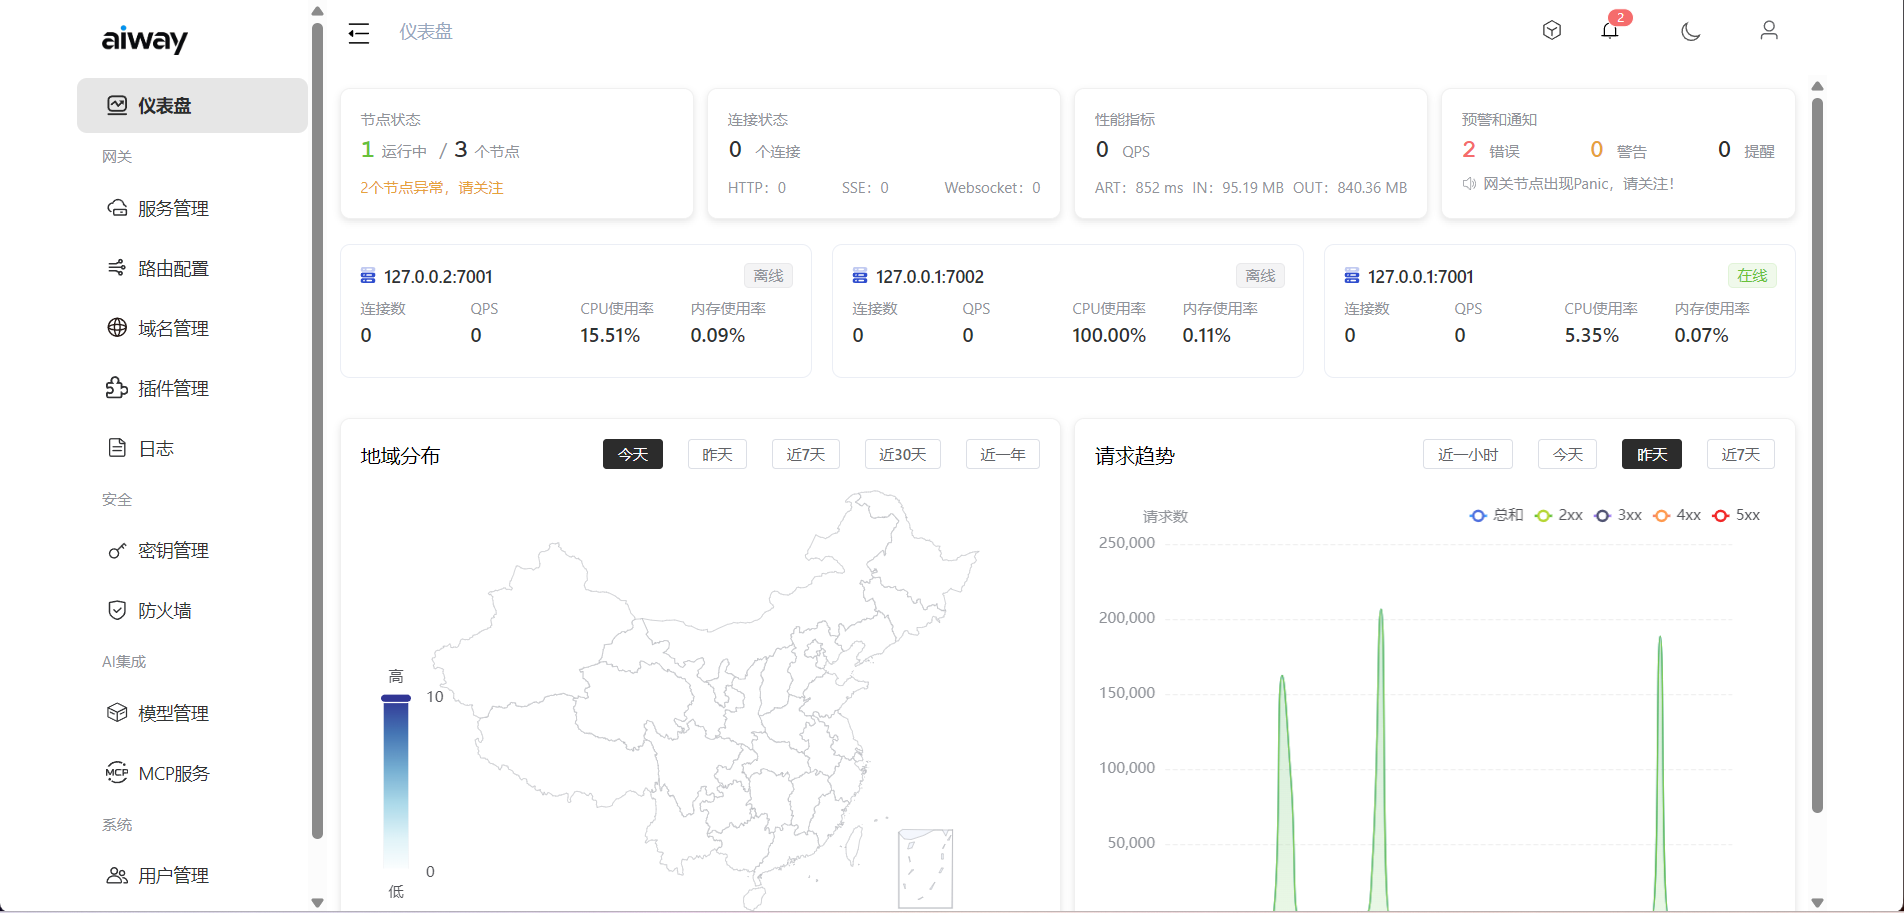
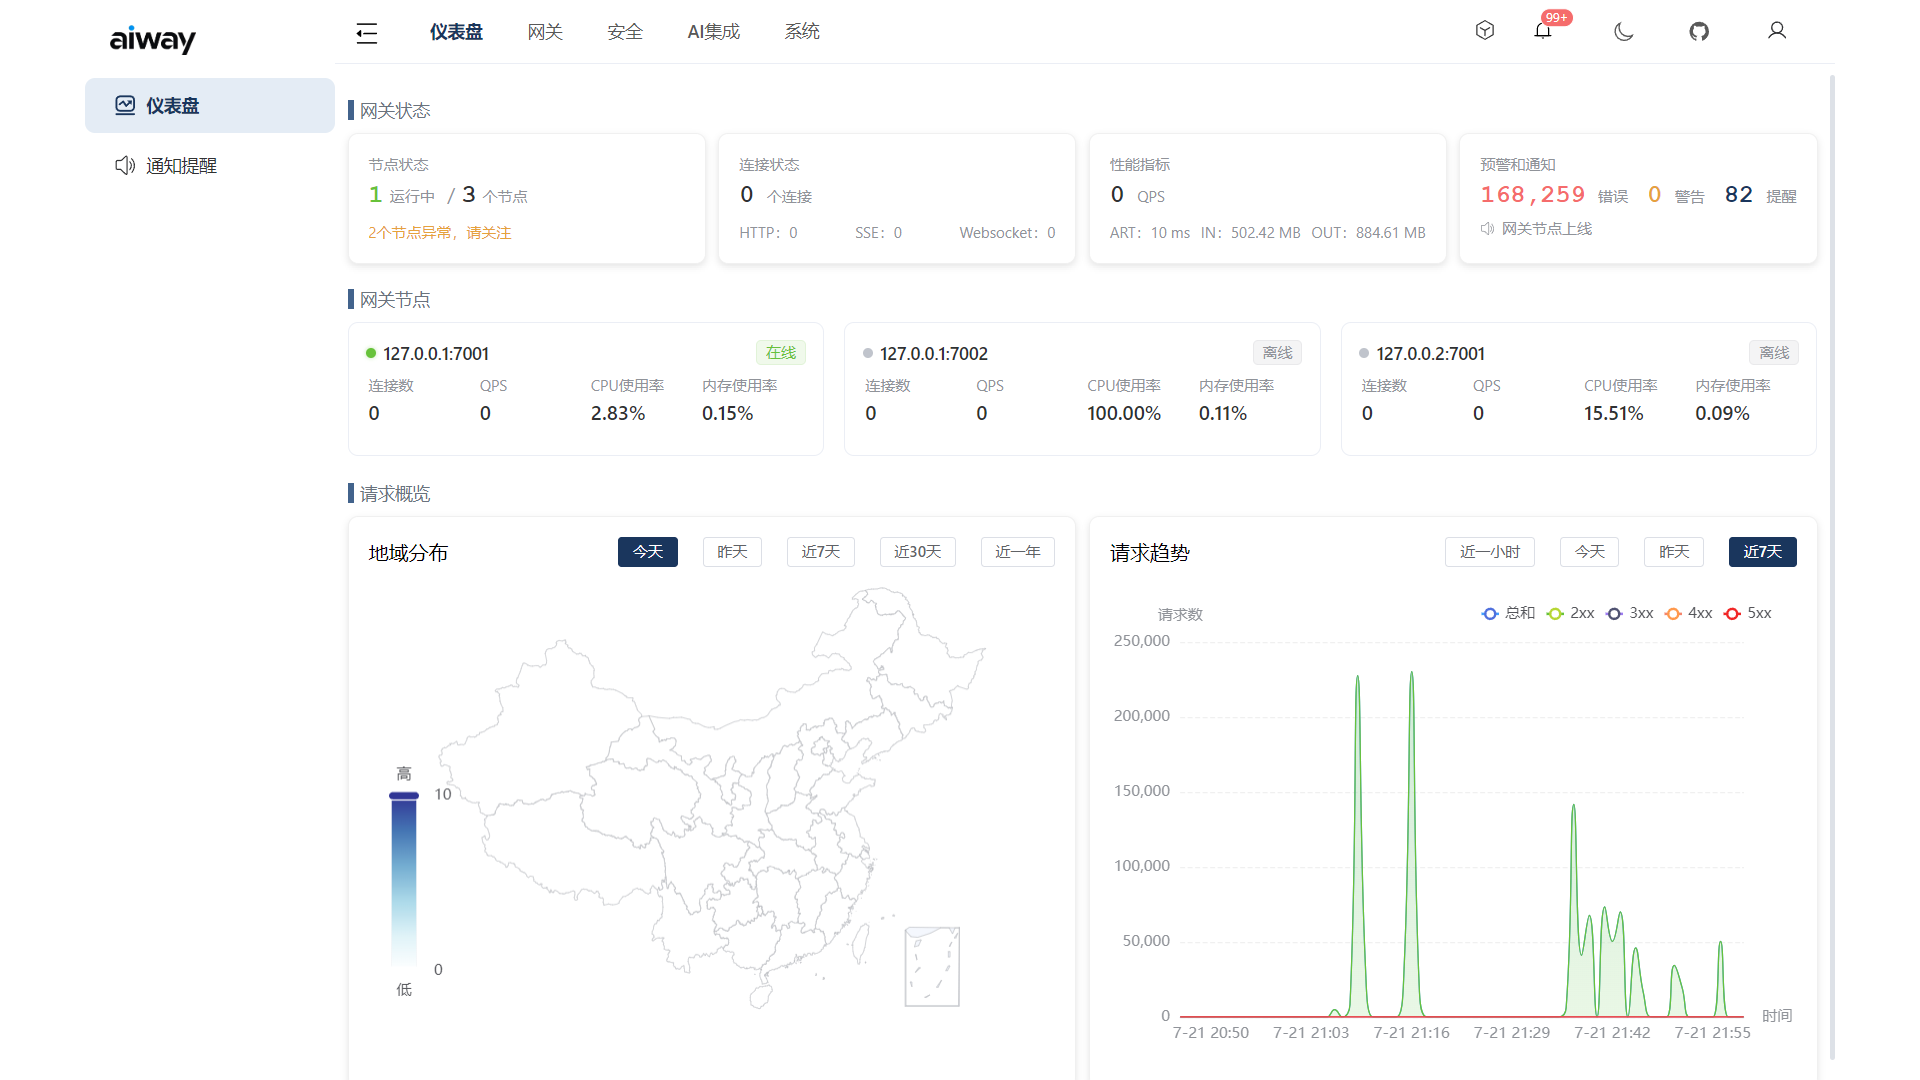
update docs

diff --git a/docs/.vitepress/config.js b/docs/.vitepress/config.js
@@ -60,7 +60,6 @@ export default {
                 text: '接入层',
                 items: [
                     {text: '概述', link: '/access/overview'},
-                    {text: 'L4 透传', link: '/access/l4-proxy'},
                     {text: 'TLS 终止', link: '/access/tls'}
                 ]
             },

diff --git a/docs/access/overview.md b/docs/access/overview.md
@@ -1,20 +1,39 @@
 # 接入层
 
-接入层（Access）是网关系统的 L4 TCP 透传代理，支持 TLS 终止。
+## `access` 接入点
 
-Access 作为外部流量的统一入口，将请求转发到后端网关节点，和 Nginx 类似。
+通常情况下，网关作为系统内部服务，不应在公网暴露，所以需要一个接入点来接收外部流量，并转发到网关节点。
+
+接入层 `access` 是 aiway 为网关提供的的可选入口点，在 L4 层进行流量转发，支持 TLS 终止。
 
 ```text
-Request --> Access --> Gateway1 --> Service
+# 请求流程
+Request --> Access --> Gateway --> Service
 ```
 
-当有多个网节点时，建议通过Access来接入，可将域名解析到Access节点，实现网关的负载均衡。
+`access` 会与控制台通信，自动获取可用的网关节点，当有多个网节点时，建议通过 `access` 来接入，可将域名解析到 `access`
+节点，实现网关的负载均衡。
 
-## 职责
+![域名管理](../images/access.png)
 
-- **统一入口**：作为系统的对外统一接入点
-- **L4 透传**：纯 TCP 层转发，不解析 HTTP 内容
-- **TLS 终止**：解密 HTTPS 流量后以明文转发给网关
-- **SNI 路由**：根据域名动态选择 TLS 证书
-- **节点发现**：从控制台自动发现网关节点
-- **负载均衡**：自动分发到多个网关节点
+
+> 如果您对 Nginx 更熟悉，也可以使用 Nginx 作为接入点，反向代理到网关节点。
+
+## 启动参数
+
+以下是 `access` 的启动参数：
+
+```shell
+access -h
+Usage: access [OPTIONS]
+
+Options:
+  -a, --address <ADDRESS>        Listen address [default: 0.0.0.0]
+  -p, --port <PORT>              HTTP listen port [default: 7080]
+      --https-port <HTTPS_PORT>  HTTPS listen port, 0 means disabled [default: 0]
+  -c, --console <CONSOLE>        Console address [default: 127.0.0.1:7000]
+  -l, --log-server <LOG_SERVER>  Log server address [default: 127.0.0.1:7280]
+  -h, --help                     Print help
+  -V, --version                  Print version
+
+```

diff --git a/docs/gateway/plugins.md b/docs/gateway/plugins.md
@@ -4,21 +4,21 @@
 
 ## 插件类型
 
-| 类型 | 作用范围 | 说明 |
-|------|----------|------|
-| 全局插件 | 所有请求 | 在每个请求的所有阶段执行 |
-| 路由插件 | 特定路由 | 仅在该路由匹配时执行 |
-| 模型插件 | AI 模型供应商 | 仅在该模型的请求中执行 |
+| 类型   | 作用范围     | 说明           |
+|------|----------|--------------|
+| 全局插件 | 所有请求     | 在每个请求的所有阶段执行 |
+| 路由插件 | 特定路由     | 仅在该路由匹配时执行   |
+| 模型插件 | AI 模型供应商 | 仅在该模型的请求中执行  |
 
 ## 插件生命周期
 
-| 阶段 | 执行时机 | 操作对象 |
-|------|----------|----------|
-| `on_request` | 请求转发前 | 请求头 |
-| `on_request_body` | 请求转发前 | 请求体 |
-| `on_response` | 收到响应后 | 响应头 |
-| `on_response_body` | 收到响应后（同步） | 响应体 |
-| `on_logging` | 日志记录时 | 上下文 |
+| 阶段                 | 执行时机      | 操作对象 |
+|--------------------|-----------|------|
+| `on_request`       | 请求转发前     | 请求头  |
+| `on_request_body`  | 请求转发前     | 请求体  |
+| `on_response`      | 收到响应后     | 响应头  |
+| `on_response_body` | 收到响应后（同步） | 响应体  |
+| `on_logging`       | 日志记录时     | 上下文  |
 
 ## 插件开发
 

diff --git a/docs/logg/overview.md b/docs/logg/overview.md
@@ -1,12 +1,12 @@
 # 日志服务
 
-日志服务（Logg）基于 [Tantivy](https://github.com/quickwit-oss/tantivy) 全文检索引擎构建。
+日志服务 `logg` 用于接收并存储网关节点产生的所有日志，基于 [Tantivy](https://github.com/quickwit-oss/tantivy) 全文检索引擎构建。
 
 ## 功能
 
-- **通用日志**：接收应用日志并建立全文索引（索引名: aiway-logs）
-- **请求日志**：接收网关请求日志并建立索引（索引名: request-logs）
-- **REST API**：兼容 Quickwit 的查询接口
+- 通用日志：接收应用日志并建立全文索引（索引名: aiway-logs）
+- 请求日志：接收网关请求日志并建立索引（索引名: request-logs）
+- 模型调用日志：接收模型调用日志并建立索引（索引名: model-call-logs）
 
 ## 启动
 
@@ -14,9 +14,16 @@
 ./logg
 ```
 
-## API
+可选的启动参数：
 
-| 方法   | 路径                         | 说明   |
-|------|----------------------------|------|
-| POST | `/api/v1/{index}/ingest`   | 写入日志 |
-| GET  | `/api/v1/{index}/search`   | 搜索日志 |
+```shell
+./logg -h
+Usage: logg [OPTIONS]
+
+Options:
+  -a, --address <ADDRESS>  Server address [default: 127.0.0.1]
+  -p, --port <PORT>        Server port [default: 7280]
+  -h, --help               Print help
+  -V, --version            Print version
+
+```

diff --git a/docs/faq.md b/docs/faq.md
@@ -1,28 +1,12 @@
 # FAQ
 
-## 如何快速启动？
+## 当前阶段
 
-```bash
-./aiway
-```
-访问 http://127.0.0.1:7000，默认账号 admin/admin。
+aiway
+当前处于快速迭代中，部分架构或API尚未完全稳定。如果在使用过程有任何问题，可在此提交 [issue](https://github.com/xgpxg/aiway/issues)。
 
-## 如何添加路由？
+## 开源协议
 
-在控制台 → 路由管理 → 创建路由，填写域名、路径、目标服务后保存。
+aiway 使用 [Apache 2.0](https://github.com/xgpxg/aiway/blob/master/LICENSE) 开源协议。
 
-## 插件支持哪些语言？
-
-任何可编译为 WASM 的语言。推荐使用 Rust + `aiway-plugin` SDK。
-
-## 如何启用 HTTPS？
-
-在控制台 → 域名管理 → 上传证书，Access 层会自动使用证书进行 TLS 终止。
-
-## 如何配置集群？
-
-参考 [集群部署](/deployment/cluster) 文档，需要 MySQL、Redis 和可选 Quickwit。
-
-## 为什么要使用 L4 透传？
-
-L4 透传性能优于 L7，且不限制应用层协议。配合 TLS 终止，可在降低后端复杂度的同时保证安全性。
+可用在商业用途。

diff --git a/docs/access/tls.md b/docs/access/tls.md
@@ -1,8 +1,10 @@
 # TLS 终止
 
-Access 层支持 TLS 终止，基于 OpenSSL 实现。
+`access` 支持 TLS 终止，基于 OpenSSL 实现。
 
-## 架构
+可在控制台添加域名，并为域名配置对应的 TLS 证书。
+
+## 流程
 
 ```
 客户端(HTTPS) → Access(:7443) TLS 终止 → 网关(:7001 明文)
@@ -14,8 +16,8 @@ Access 层支持 TLS 终止，基于 OpenSSL 实现。
 
 ### 匹配优先级
 
-1. **精确匹配**：`www.example.com`
-2. **通配符匹配**：`*.example.com`
+1. 精确匹配：`www.example.com`
+2. 通配符匹配：`*.example.com`
 
 未匹配到证书时，TLS 握手失败。
 
@@ -25,9 +27,4 @@ Access 层支持 TLS 终止，基于 OpenSSL 实现。
 
 - 支持 PEM 格式
 - 支持证书链（叶子证书 + 中间 CA）
-- 上传后自动同步到所有 Access 节点
-- 定时检查证书变更
-
-## ALPN
-
-TLS 握手时仅协商 HTTP/1.1，不启用 h2。
+- 上传后自动同步到所有 `access` 节点

diff --git a/docs/console/routes.md b/docs/console/routes.md
@@ -2,17 +2,8 @@
 
 在控制台路由管理页面配置请求路由规则。
 
-## 字段说明
+![路由配置](../images/route.png)
 
-| 字段 | 说明 |
-|------|------|
-| 名称 | 路由标识名 |
-| 域名 | 匹配的 Host |
-| 路径 | 请求路径 |
-| 目标服务 | 选择后端服务 |
-| 鉴权开关 | 是否开启鉴权 |
-| 鉴权白名单 | 跳过鉴权的路径 |
-| 插件 | 关联的 WASM 插件 |
 
 ## 配置流程
 
@@ -20,3 +11,9 @@
 2. 关联已配置的服务
 3. 配置插件（可选）
 4. 保存后自动同步到网关节点
+
+
+## 路由全局插件
+支持配置全局插件，对所有路由生效，可在此进行统一的入站流量处理或者日志记录等。
+
+![路由全局插件配置弹窗](../images/global-route-plugin.png)

diff --git a/docs/console/dashboard.md b/docs/console/dashboard.md
@@ -6,9 +6,9 @@
 
 ## 展示指标
 
-- **请求统计**：总请求数、QPS、各状态码分布
-- **连接状态**：HTTP 连接数、SSE 连接数、WebSocket 连接数
-- **节点状态**：在线网关节点列表、版本、资源使用率
-- **响应时间**：平均响应时间趋势
-- **地理分布**：按省份统计的请求来源分布
-- **告警信息**：最近的告警通知
+- 请求统计：总请求数、QPS、各状态码分布
+- 连接状态：HTTP 连接数、SSE 连接数、WebSocket 连接数
+- 节点状态：在线网关节点列表、版本、资源使用率
+- 响应时间：平均响应时间趋势
+- 地理分布：按省份统计的请求来源分布
+- 告警信息：最近的告警通知

diff --git a/docs/console/services.md b/docs/console/services.md
@@ -1,18 +1,11 @@
 # 服务管理
 
-管理后端服务实例，配置负载均衡。
+管理后端服务实例，配置负载均衡策略。
 
-## 字段说明
+![服务管理](../images/service.png)
 
-| 字段 | 说明 |
-|------|------|
-| 服务名称 | 服务标识 |
-| 实例地址 | 多个 IP:Port |
-| 健康检查 | 检查后端服务状态 |
+## 配置流程
 
-## 使用
-
-1. 在控制台创建服务
-2. 添加服务实例节点
-3. 在路由配置中选择该服务
-4. 网关自动将匹配请求转发到服务实例
+1. 点击“添加服务”按钮，填写服务基本信息
+2. 选择负载策略
+3. 保存后服务配置将自动生效

diff --git a/docs/console/plugins.md b/docs/console/plugins.md
@@ -2,13 +2,10 @@
 
 管理网关插件，支持上传 WASM 格式的插件文件。
 
-## 功能
+![插件管理](../images/plugins.png)
 
-- **插件上传**：上传编译好的 WASM 插件文件
-- **插件配置**：编辑插件的默认配置
-- **全局插件**：设置作用域为全局的插件
-- **路由关联**：将插件关联到特定路由
-
-## 操作
+## 配置流程
 
 在控制台插件管理页面上传 `.wasm` 文件，填写插件名称和描述，配置默认参数。上传后自动同步到网关节点。
+
+> 插件开发请参考：[插件开发](../plugins/overview.md)

diff --git a/docs/console/firewall.md b/docs/console/firewall.md
@@ -1,12 +1,14 @@
 # 防火墙
 
-配置安全访问规则，保护后端服务。
+防火墙用于配置安全访问规则，保护后端服务。
+
+![防火墙配置](../images/firewall.png)
 
 ## 规则类型
 
-- **IP 黑名单**：禁止指定 IP 访问
-- **IP 白名单**：仅允许指定 IP 访问
-- **Referer 校验**：检查请求来源
+- IP 黑名单：禁止指定 IP 访问
+- IP 白名单：仅允许指定 IP 访问
+- Referer 校验：检查请求来源
 
 ## 配置
 

diff --git a/docs/console/api-keys.md b/docs/console/api-keys.md
@@ -2,12 +2,13 @@
 
 管理 API Key，用于网关鉴权。
 
+![密钥管理](../images/api-keys.png)
+
 ## 功能
 
-- **创建密钥**：生成新的 API Key
-- **启用/禁用**：控制密钥是否可用
-- **删除密钥**：移除密钥
-- **加密存储**：使用 ChaCha20Poly1305 算法加密 API Key
+- 创建密钥：生成新的 API Key
+- 启用/禁用：控制密钥是否可用
+- 删除密钥：移除密钥
 
 ## 使用
 
